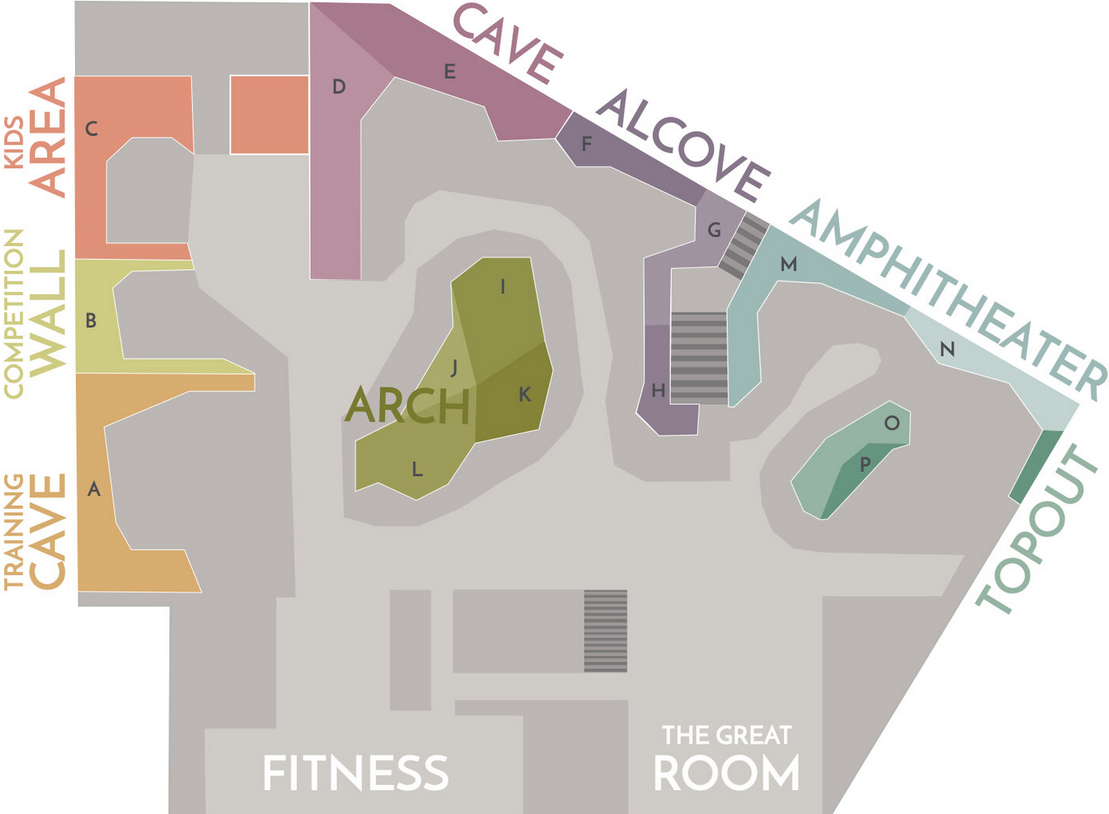
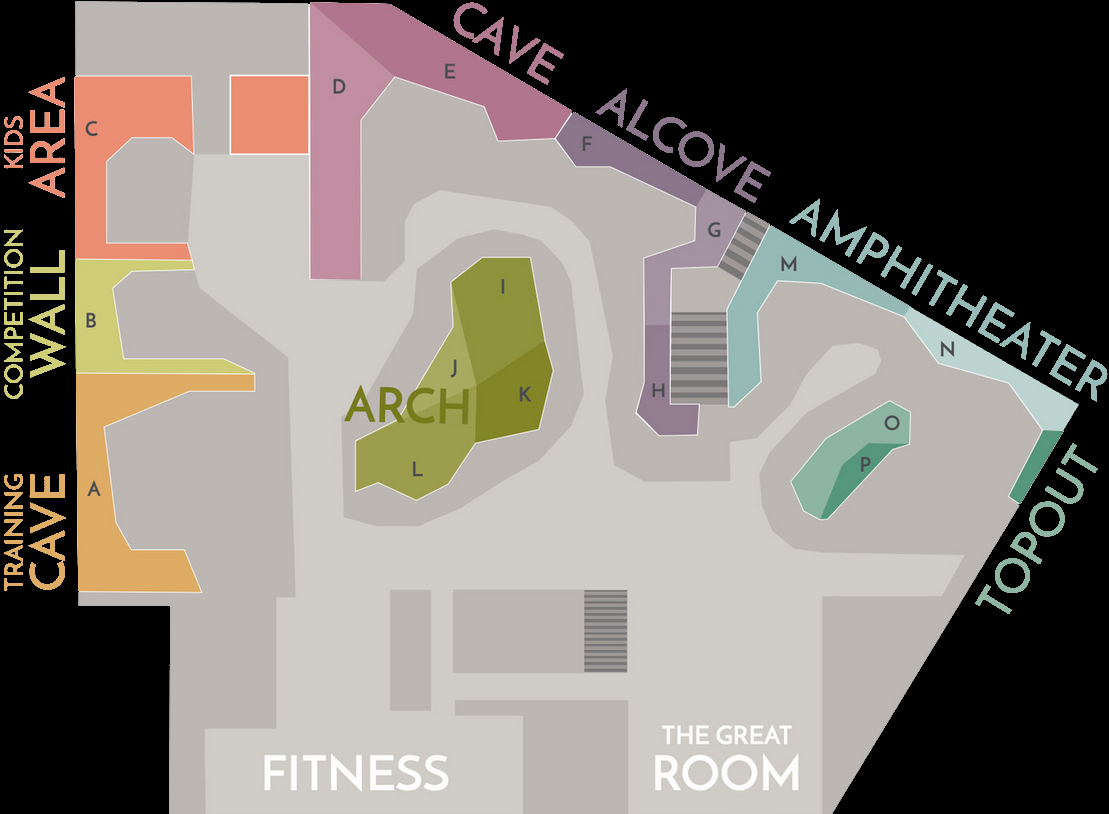
Dark mode boulder map

diff --git a/src/components/BoulderCard/BoulderCard.scss b/src/components/BoulderCard/BoulderCard.scss
@@ -1,18 +1,21 @@
 .BoulderCard {
   width: 200px;
-  background-color: black;
+  background-color: #222;
   border-radius: 10px;
+  box-sizing: border-box;
+  border: 2px solid transparent;
 
   &--active {
-    box-shadow: #bbb 5px 5px 5px;
+    border: 2px solid #1967fc;
   }
 
   &__Image {
     position: relative;
 
     img {
-      height: 201px;
-      width: 200px;
+      width: 100%;
+      aspect-ratio: 1;
+
       border-radius: 10px;
     }
   }
@@ -48,7 +51,7 @@
     text-align: center;
     font-size: 8px;
     line-height: 20px;
-    color: black;
+    color: #222;
     font-weight: 900;
   }
 
@@ -71,7 +74,7 @@
     height: 0;
     border-left: 10px solid transparent;
     border-right: 10px solid transparent;
-    border-bottom: 18px solid black;
+    border-bottom: 18px solid #222;
     z-index: 1;
     transform: translate(0, -95%);
   }
@@ -82,7 +85,7 @@
     transform: translate(0, -65%);
     background-color: purple;
     border-radius: 50%;
-    border: 3px black solid;
+    border: 3px #222 solid;
   }
 
   &__PillContainer {

diff --git a/src/layouts/BoulderMap/BoulderMap.js b/src/layouts/BoulderMap/BoulderMap.js
@@ -1,16 +1,20 @@
 import React, { useState } from "react";
-import "./BoulderMap.scss";
 import CardCarousel from "../../components/CardCarousel";
 import GymMap from "../../components/GymMap";
+import styled from "styled-components";
 
-const BoulderMap = () => {
+const BoulderMapWrapper = styled.div`
+  padding: 0;
+  background-color: black;
+`;
+
+export const BoulderMap = () => {
   const [activePinId, setActivePinId] = useState(1);
   return (
-    <div className="BoulderMap">
-      <div className="BoulderFilter">TODO - add filter block</div>
+    <BoulderMapWrapper>
       <GymMap activePinId={activePinId} />
       <CardCarousel activePinId={activePinId} setActivePinId={setActivePinId} />
-    </div>
+    </BoulderMapWrapper>
   );
 };
 

diff --git a/src/App.tsx b/src/App.tsx
@@ -1,15 +1,16 @@
 import React from "react";
-import BoulderMap from "./layouts/BoulderMap";
 import BoulderUpload from "./layouts/BoulderUpload/BoulderUpload";
 import { BoulderPage } from "./layouts/BoulderPage/BoulderPage";
 import { UserPage } from "./layouts/UserPage/UserPage";
 import styled from "styled-components";
+import BoulderMap from "./layouts/BoulderMap/BoulderMap";
 
 function App() {
   return (
     <div>
       {/*<BoulderPage />*/}
-      <UserPage />
+      {/*<UserPage />*/}
+      <BoulderMap />
     </div>
   );
 }

diff --git a/src/components/GymMap/GymMap.scss b/src/components/GymMap/GymMap.scss
@@ -1,8 +1,7 @@
 .GymMap {
   position: relative;
-  width: 60%;
+  width: 100%;
   margin: 0 auto;
-  margin-top: 30px;
 
   img {
     width: 100%;
